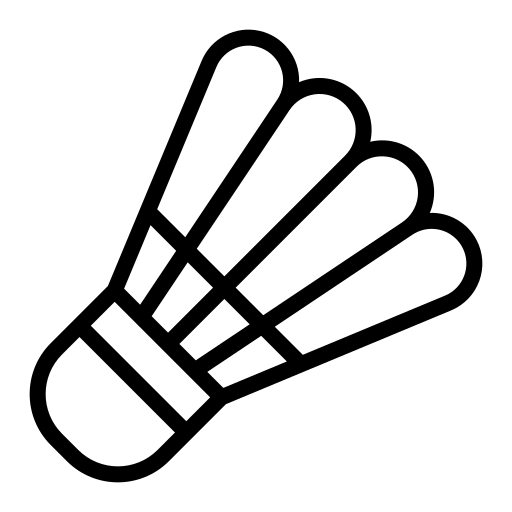
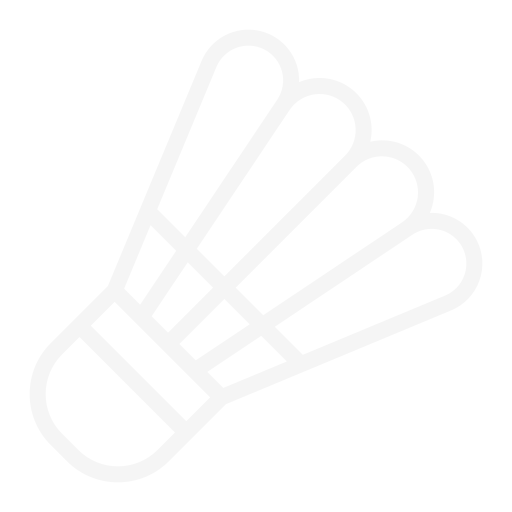
csss dark mode button

Changed region(s): [[0.0312, 0.0312, 0.9688, 0.9688]]

diff --git a/app/public/styles/JS/main.js b/app/public/styles/JS/main.js
@@ -5,8 +5,8 @@
 //******************************
  const btndarkMode = document.querySelector(".btnmode")
  const body = document.querySelector("body")
- const darkmode = document.querySelector(".btnmode:first-child")
- const lightmode = document.querySelector(".btnmode:nth-child(2)")
+ const darkmode = document.getElementById("darkMode")
+ const lightmode = document.getElementById("lightMode")
 
 
 
@@ -47,7 +47,7 @@ btndarkMode.addEventListener("click", function () {
         darkmode.style.display = "none";
         lightmode.style.display = "block";
     } else {
-        localStorage.removeItem("dark");
+        localStorage.removeItem("theme");
         darkmode.style.display = "block";
         lightmode.style.display = "none";
     }

diff --git a/app/public/styles/CSS/app.css b/app/public/styles/CSS/app.css
@@ -99,9 +99,8 @@ input[type="password"]:focus {
 }
 
 /* Button Neomorphism Inner Shadow */
-button.btn {
-    width: 100%;
-    padding: 0.75rem;
+div.btn {
+    padding: 0.50rem;
     margin-top: 1rem;
     border: none;
     border-radius: 16px;
@@ -115,12 +114,18 @@ button.btn {
     transition: all 0.2s ease;
 }
 
-button.btn:hover {
+.btn:hover {
     box-shadow: inset 2px 2px 6px var(--shadow-dark),
                 inset -2px -2px 6px var(--shadow-light),
                 0 0 8px var(--accent-color);
     color: var(--accent-color);
 }
+
+#darkMode, #lightMode{
+    width: 30px;
+}
+
+
 
 /* Alert messages */
 .alert {
